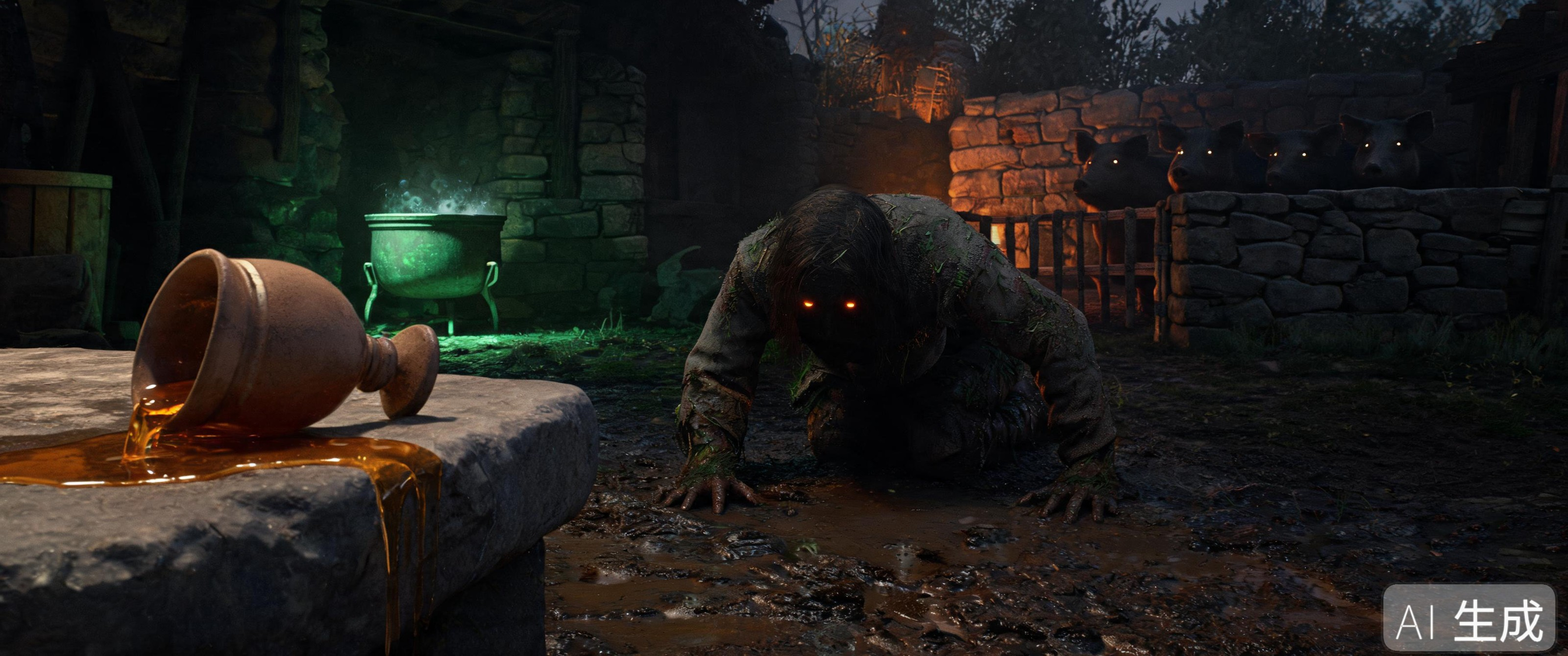
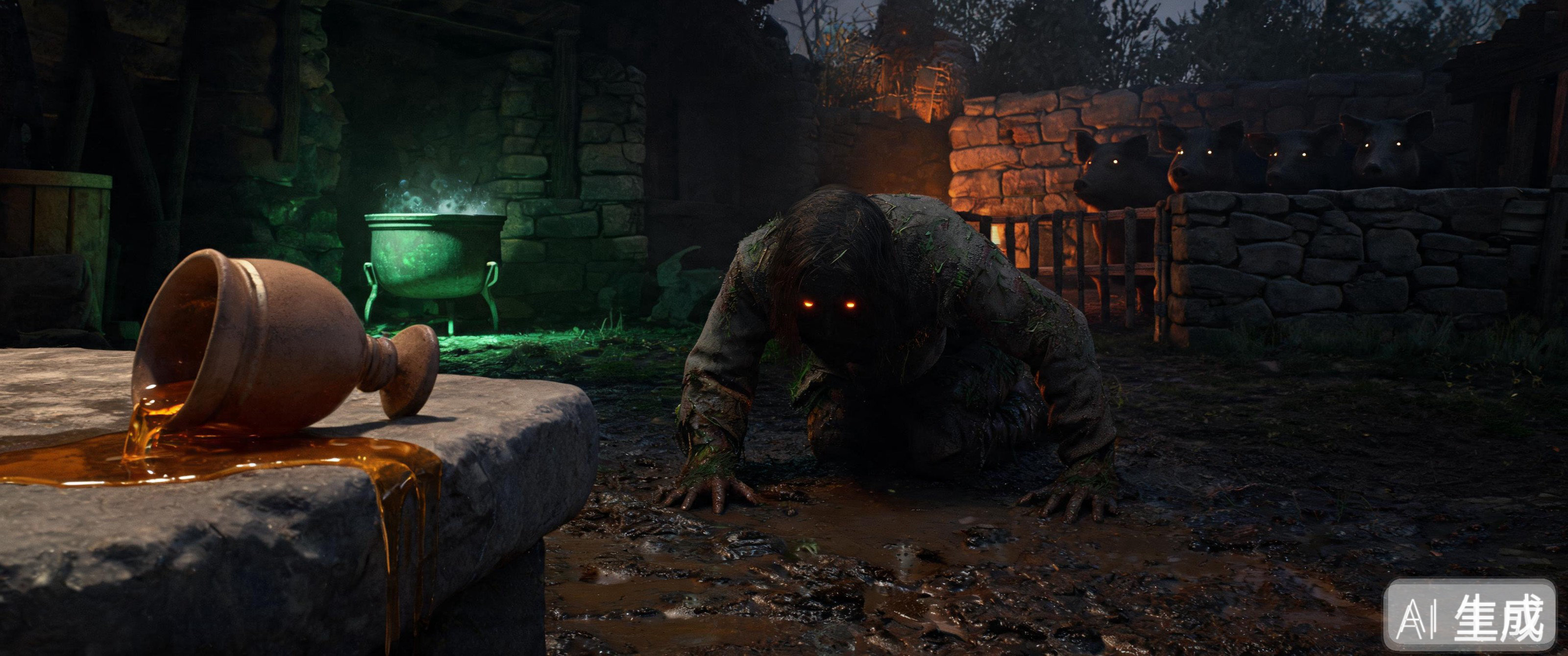
feat: 十岛羊皮纸详图 + 本岛详图接线（M 键岛内看详图）+ 3D 线 Phase A 三张参考表
- concept-art/maps/05~14：伊斯玛洛斯/食莲岛/独眼巨人岛/忒勒皮洛斯/特洛伊/太阳岛/
  奥吉吉亚/斯克里岛/伊萨卡/斯库拉海峡，2048x2048 仿古羊皮纸（无文字，符号表达）
  ——13 岛地图全覆盖（此前仅埃亚/冥界/风神）
- index.html：SITE_MAPS 映射 + openMap 按 scene 切换；岛内按 M 显示「详图 · 岛名」，
  世界图保持全览；CSS #mapBoard.siteMap 正方形版式（按高度适配，隐藏船位/标记/图例）
- 3d/refs/A1-埃阿亚岛多视角参考表.jpg + A2-喀耳刻/无名旅人四视图T-pose.jpg：
  3d/PIPELINE.md §2 Phase A 的三张参考表落地；Tripo 建模（Phase B/C）仍需用户侧
- odyssey-visual.md 九章表格登记 10 张新图；HANDOFF 23；PIPELINE 标注 Phase A 状态

Changed region(s): [[0.875, 0.8567, 1.0, 1.0]]

diff --git a/odyssey-witch/index.html b/odyssey-witch/index.html
@@ -283,6 +283,11 @@
   @keyframes mapIn{from{opacity:0; transform:scale(.96);} to{opacity:1; transform:scale(1);}}
   #mapBoard{position:relative; width:92%; aspect-ratio:3200/1340; border-radius:10px; overflow:hidden;
     background:#1a1410; box-shadow:0 18px 60px rgba(0,0,0,.55), 0 0 0 1px rgba(255,255,255,.12);}
+  /* 本岛详图（正方形羊皮纸）：改用 1:1 版式，按高度适配而不是按宽度拉伸 */
+  #mapBoard.siteMap{width:auto; height:92%; aspect-ratio:1/1;}
+  #mapBoard.siteMap img{object-fit:cover;}
+  #mapBoard.siteMap #mapBoat, #mapBoard.siteMap #mapMarks,
+  #mapBoard.siteMap .lg, #mapBoard.siteMap #legsCnt{display:none;}
   #mapBoard img{width:100%; height:100%; object-fit:fill; display:block;}
   #mapBoard::after{content:""; position:absolute; inset:0;
     background:linear-gradient(180deg, rgba(10,20,36,.16), rgba(10,20,36,0) 30%, rgba(10,20,36,0) 70%, rgba(10,20,36,.22));}
@@ -7421,13 +7426,41 @@ function boatMapPos(){
   }
   return [wx/wsum, wy/wsum];
 }
+/* 本岛详图映射（odyssey-visual.md §九）：每个岛一张羊皮纸详图，M 在岛内显示对应详图 */
+const SITE_MAPS = {
+  ismaros:  { img:"concept-art/maps/05-伊斯玛洛斯图.jpg",  name:"伊斯玛洛斯" },
+  lotus:    { img:"concept-art/maps/06-食莲岛图.jpg",      name:"食莲岛" },
+  cyclops:  { img:"concept-art/maps/07-独眼巨人岛图.jpg",  name:"独眼巨人之岛" },
+  telepylos:{ img:"concept-art/maps/08-忒勒皮洛斯图.jpg",  name:"忒勒皮洛斯" },
+  troy:     { img:"concept-art/maps/09-特洛伊图.jpg",      name:"特洛伊" },
+  aia:      { img:"concept-art/maps/02-埃亚岛图.jpg",      name:"埃阿亚岛" },
+  hades:    { img:"concept-art/maps/03-冥界之岸图.jpg",    name:"冥界之岸" },
+  aeolia:   { img:"concept-art/maps/04-风神岛图.jpg",      name:"风神岛" },
+  sun:      { img:"concept-art/maps/10-太阳岛图.jpg",      name:"太阳岛" },
+  ogggia:   { img:"concept-art/maps/11-奥吉吉亚图.jpg",    name:"奥吉吉亚" },
+  scheria:  { img:"concept-art/maps/12-斯克里岛图.jpg",    name:"斯克里岛" },
+  ithaca:   { img:"concept-art/maps/13-伊萨卡图.jpg",      name:"伊萨卡" },
+  strait:   { img:"concept-art/maps/14-斯库拉海峡图.jpg",  name:"斯库拉海峡" },
+};
+
 function openMap(){
   if (titleOn||chapterOn) return;
   mapOpen = true;
-  buildMapMarks();
-  const [bx,by]=boatMapPos();
-  const b=document.getElementById("mapBoat");
-  b.style.left=bx+"%"; b.style.top=by+"%";
+  /* 本岛详图（odyssey-visual.md §九）：岛内按 M 看该岛羊皮纸详图，世界图保持全览 */
+  const sm = SITE_MAPS[scene];
+  const board = document.getElementById("mapBoard");
+  board.classList.toggle("siteMap", !!sm);
+  if (sm){
+    board.querySelector("img").src = sm.img;
+    board.querySelector("#mapHead .t").textContent = "详 图 · " + sm.name;
+  } else {
+    board.querySelector("img").src = "concept-art/maps/01-世界海图.jpg";
+    board.querySelector("#mapHead .t").textContent = "海 图 · 地 中 海";
+    buildMapMarks();
+    const [bx,by]=boatMapPos();
+    const b=document.getElementById("mapBoat");
+    b.style.left=bx+"%"; b.style.top=by+"%";
+  }
   document.getElementById("mapOverlay").classList.add("open");
   document.getElementById("stage").classList.add("mapOpen");   /* 常驻层让位浮层（game-ui-ux） */
   sfx("pick");

diff --git a/odyssey-witch/odyssey-visual.md b/odyssey-witch/odyssey-visual.md
@@ -165,6 +165,18 @@
 | `02-埃亚岛图.jpg`（2048×2048） | 埃亚岛俯瞰：女巫小屋+坩埚、发光玛草丛、泉眼、祭坛、栈桥、野猪 | 第一章章节页/任务地图 |
 | `03-冥界之岸图.jpg`（2048×2048） | 冷灰黑调冥界俯瞰：灰白栈桥与冥路、白杨列、献祭沟红光、持杖先知、青白亡魂 | 第二章章节页/任务地图 |
 | `04-风神岛图.jpg`（3200×1340） | 云海浮岛俯瞰：青铜风神宫殿、四角风牢、风流丝带、黄昏逆光（原第八章待生成项已落地） | 风神岛章节页/海图补充 |
+| `05-伊斯玛洛斯图.jpg`（2048×2048） | 半毁环形石墙与焦黑城门、重建脚手架、营火、酒坛堆、木靶、伤者帐篷、栈桥 | 岛内详图（M 键 · 喀科恩人的城） |
+| `06-食莲岛图.jpg`（2048×2048） | 莲花丛、白沙滩、旧木筏残骸、拖船道、酣睡人形、珊瑚浅礁 | 岛内详图（M 键 · 忘忧的滩） |
+| `07-独眼巨人岛图.jpg`（2048×2048） | 熏黑巨灶山洞、巨石堆、羊圈羊群、羊腹逃生道虚线、岛北小湖 | 岛内详图（M 键 · 无人之名） |
+| `08-忒勒皮洛斯图.jpg`（2048×2048） | 横贯全岛的崖壁、崖顶三座瞭望台与巨影、崖下险道、船队锚地与残骸、礁石窄航道 | 岛内详图（M 键 · 悬崖之城） |
+| `09-特洛伊图.jpg`（2048×2048） | 城墙与斯卡亚城门、希腊营寨帐篷阵、海滩船阵、坟丘石碑、神殿王宫、盾兵小阵 | 岛内详图（M 键 · 十年围城） |
+| `10-太阳岛图.jpg`（2048×2048） | 金色圣牛群、放射光圣坛、金色草场与榕树、泉眼、南岸码头、环礁 | 岛内详图（M 键 · 禁忌之牛） |
+| `11-奥吉吉亚图.jpg`（2048×2048） | 崖洞织机、石桌炉火、环形果园、白沙滩、柏树林、独木舟、同心死波纹 | 岛内详图（M 键 · 日历冻结处） |
+| `12-斯克里岛图.jpg`（2048×2048） | 白港快船、海湾弧线、山坡白宫群、橄榄园、王宫歌台（里拉琴）、瀑布、晒渔网 | 岛内详图（M 键 · 费埃克斯人的岛） |
+| `13-伊萨卡图.jpg`（2048×2048） | 岩丘王宫、十二斧阵列、橄榄园、牧猪人石屋、双港口、山道虚线网、瞭望塔 | 岛内详图（M 键 · 归乡） |
+| `14-斯库拉海峡图.jpg`（2048×2048） | 对峙双崖：左崖六头海怪、右崖卡律比狄斯漩涡、窄水道贴崖航线、航标 | 岛内详图（M 键 · 海峡） |
+
+> 注：05~14 为 2026-11-11 批次（每个岛一张，13 岛全覆盖）；已接入游戏——岛内场景按 M 显示该岛详图（`SITE_MAPS`），世界图保持全览。
 
 **IP 形象（`concept-art/brand/`）**
 

diff --git a/odyssey-witch/3d/PIPELINE.md b/odyssey-witch/3d/PIPELINE.md
@@ -44,6 +44,14 @@
 
 ## 2. Phase A · 多视角参考图（图像生成）
 
+> **2026-11-11 状态：本阶段的 3 张参考图已生成完毕**（原卡在"用户侧图像生成"）：
+> - `3d/refs/A1-埃阿亚岛多视角参考表.jpg`（2048×2048，俯视/斜侧 3/4/小屋正面/码头栈桥 四格，色板按下方规定）
+> - `3d/refs/A2-喀耳刻四视图T-pose.jpg`（3072×2048，正/右/背/左四视图，浅灰底）
+> - `3d/refs/A2-无名旅人四视图T-pose.jpg`（3072×2048，同上）
+>
+> 下一步 Phase B/C（Tripo 建模）仍需在 Tripo 侧人工执行：A1 → 场景资产分诊建模，A2 两张 → Multi-View to 3D + Smart Mesh。
+> 提示词原稿保留在下方，供重生成/补视角时复用。
+
 已有单视角概念图，**缺的是多视角参考表**（Sac 的第一步）。用任意图像模型（即梦 / MJ / GPT-Image 等）生成。
 
 ### A1 场景多视角参考表
@@ -245,3 +253,5 @@ scene
 - [ ] 性能四项预算全绿（面数/体积/draw call/贴图）
 - [ ] 三条交互可完整走通：对话四选一、采草交付、石碑阅读
 - [ ] 2D 版不受影响，`index.html` 无改动
+
+> AI生成
